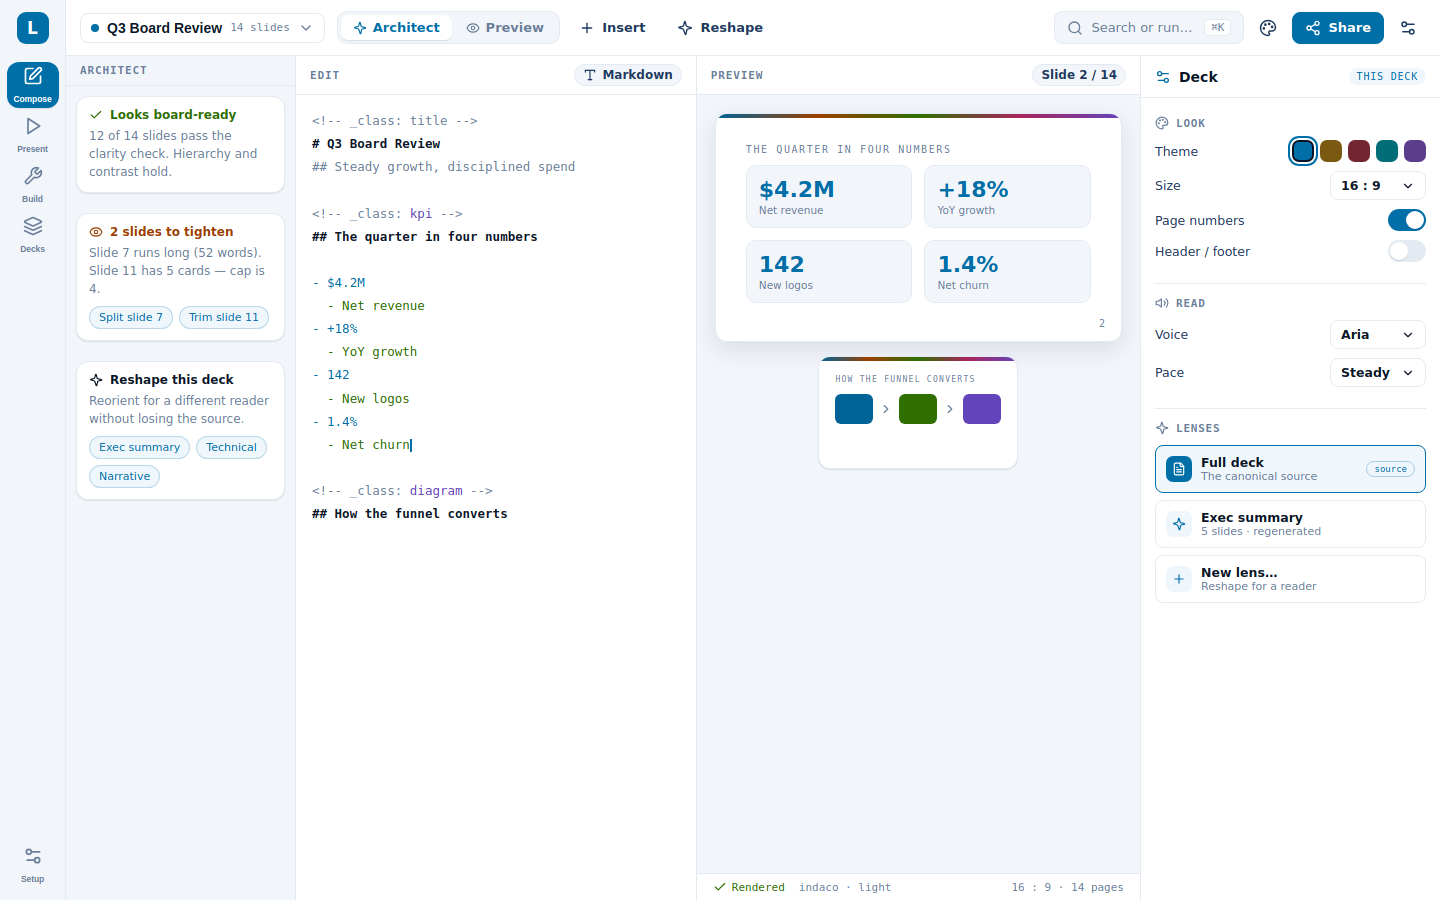
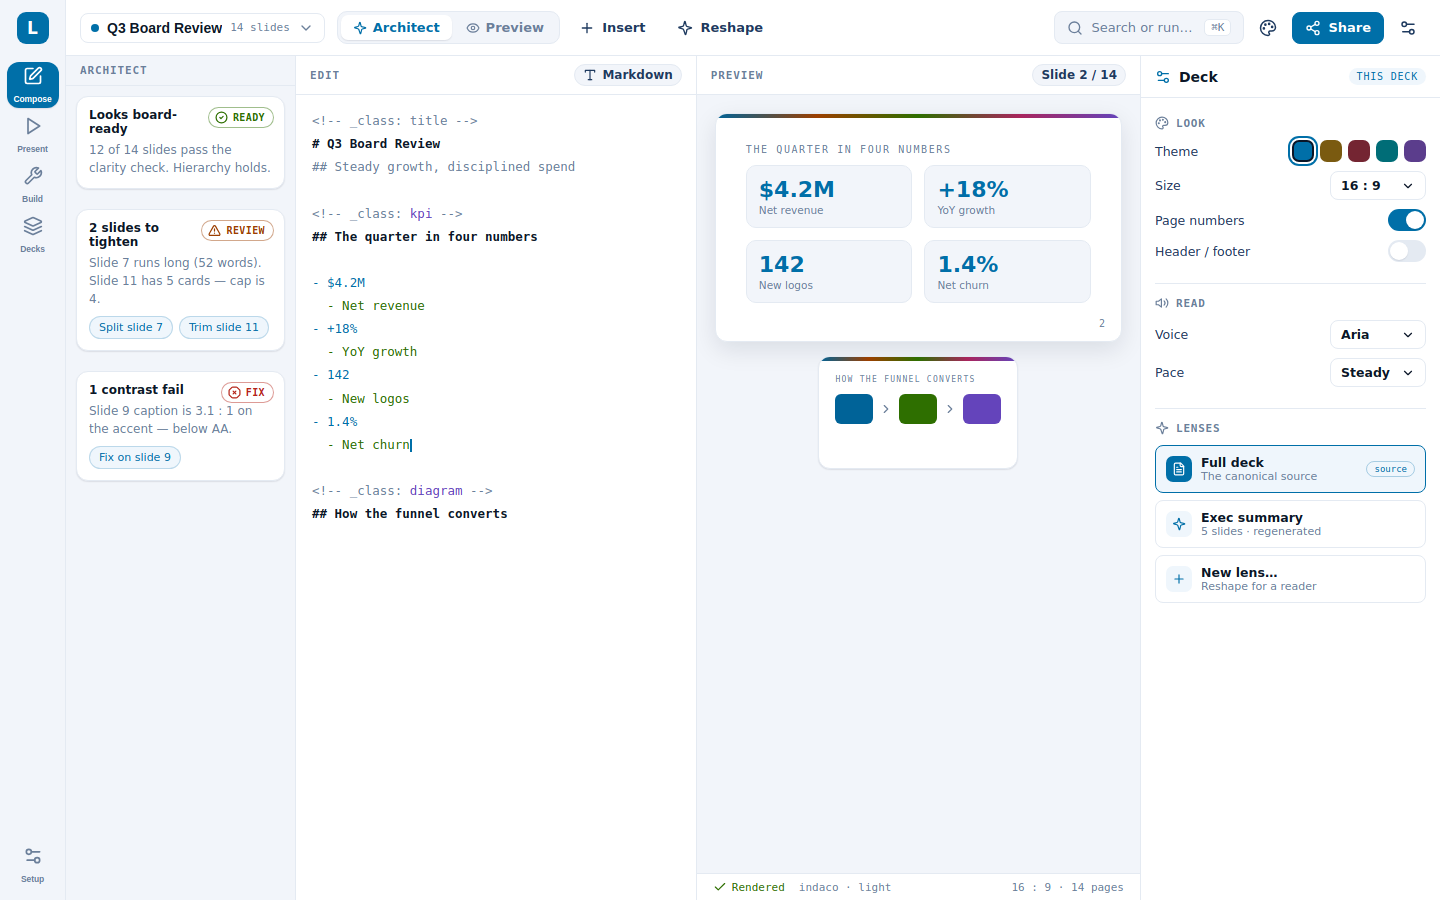
docs(decisions): colour-independent status tags for accessibility (WCAG 1.4.1)
Status/severity no longer rides on colour alone. The Architect findings gain a
shape-coded intent tag in the top-right corner — circle-check READY, triangle
REVIEW, octagon-x FIX, circle-i INFO — pairing a silhouette-distinct icon with a
text label; card titles de-coloured so colour only reinforces. Adds intent-proof
(full-colour vs greyscale) proving the tags survive total colour loss. Binds it as
kill-criterion PM-13 + a §8 visual-language rule; v1 and v2 Compose updated.

Claude-Session: https://claude.ai/code/session_01CzAa6CanDDRTjCN9n5wX5R

Changed region(s): [[0.0625, 0.2489, 0.1875, 0.56], [0.0625, 0.1244, 0.1875, 0.2178]]

diff --git a/engineering/decisions/2026-06-21-app-redesign/mockups/src/intent-proof.body.html b/engineering/decisions/2026-06-21-app-redesign/mockups/src/intent-proof.body.html
@@ -1,0 +1,24 @@
+<!--mode:light;w:900-->
+<div style="min-height:100vh;display:grid;place-items:center;background:var(--bg-alt);font-family:var(--font-sans)">
+  <div style="background:var(--bg);border:1px solid var(--border);border-radius:18px;box-shadow:var(--shadow-lg);padding:34px 38px;max-width:760px">
+    <div style="font-family:var(--font-mono);font-size:11px;letter-spacing:.14em;text-transform:uppercase;color:var(--text-muted);margin-bottom:8px">Accessibility · WCAG 1.4.1 Use of Colour</div>
+    <h1 style="font-family:var(--font-sans);font-weight:800;font-size:24px;color:var(--text-heading);margin:0 0 6px;letter-spacing:-.01em">Intent never rides on colour alone</h1>
+    <p style="font-size:14px;color:var(--text-body);margin:0 0 24px;line-height:1.6">Each status tag pairs colour with a <b>shape-distinct icon</b> (circle ✓ · triangle ! · octagon × · circle i) and a text label. Remove colour entirely and the meaning survives.</p>
+
+    <div style="font-family:var(--font-mono);font-size:11px;color:var(--text-muted);text-transform:uppercase;letter-spacing:.08em;margin-bottom:10px">Full colour</div>
+    <div style="display:flex;gap:14px;flex-wrap:wrap;margin-bottom:26px">
+      <span class="intent-tag pass" style="position:static;font-size:13px;padding:6px 13px 6px 10px"><svg class="icon" style="width:17px;height:17px"><use href="#i-check-circle"/></svg>READY</span>
+      <span class="intent-tag warn" style="position:static;font-size:13px;padding:6px 13px 6px 10px"><svg class="icon" style="width:17px;height:17px"><use href="#i-alert-triangle"/></svg>REVIEW</span>
+      <span class="intent-tag fix" style="position:static;font-size:13px;padding:6px 13px 6px 10px"><svg class="icon" style="width:17px;height:17px"><use href="#i-octagon-x"/></svg>FIX</span>
+      <span class="intent-tag info" style="position:static;font-size:13px;padding:6px 13px 6px 10px"><svg class="icon" style="width:17px;height:17px"><use href="#i-info-circle"/></svg>INFO</span>
+    </div>
+
+    <div style="font-family:var(--font-mono);font-size:11px;color:var(--text-muted);text-transform:uppercase;letter-spacing:.08em;margin-bottom:10px">Greyscale — colour-blind / monochrome worst case</div>
+    <div style="display:flex;gap:14px;flex-wrap:wrap;filter:grayscale(1)">
+      <span class="intent-tag pass" style="position:static;font-size:13px;padding:6px 13px 6px 10px"><svg class="icon" style="width:17px;height:17px"><use href="#i-check-circle"/></svg>READY</span>
+      <span class="intent-tag warn" style="position:static;font-size:13px;padding:6px 13px 6px 10px"><svg class="icon" style="width:17px;height:17px"><use href="#i-alert-triangle"/></svg>REVIEW</span>
+      <span class="intent-tag fix" style="position:static;font-size:13px;padding:6px 13px 6px 10px"><svg class="icon" style="width:17px;height:17px"><use href="#i-octagon-x"/></svg>FIX</span>
+      <span class="intent-tag info" style="position:static;font-size:13px;padding:6px 13px 6px 10px"><svg class="icon" style="width:17px;height:17px"><use href="#i-info-circle"/></svg>INFO</span>
+    </div>
+  </div>
+</div>

diff --git a/engineering/decisions/2026-06-21-app-redesign/mockups/src/compose-rail.body.html b/engineering/decisions/2026-06-21-app-redesign/mockups/src/compose-rail.body.html
@@ -43,12 +43,14 @@
         <!-- Architect aside -->
         <aside class="architect">
           <div class="pane-head">Architect</div>
-          <div class="arch-card good">
-            <div class="t"><svg class="icon xs"><use href="#i-check"/></svg>Looks board-ready</div>
-            <div class="b">12 of 14 slides pass the clarity check. Hierarchy and contrast hold.</div>
+          <div class="arch-card">
+            <span class="intent-tag pass"><svg class="icon"><use href="#i-check-circle"/></svg>READY</span>
+            <div class="t">Looks board-ready</div>
+            <div class="b">12 of 14 slides pass the clarity check. Hierarchy holds.</div>
           </div>
-          <div class="arch-card warn">
-            <div class="t"><svg class="icon xs"><use href="#i-eye"/></svg>2 slides to tighten</div>
+          <div class="arch-card">
+            <span class="intent-tag warn"><svg class="icon"><use href="#i-alert-triangle"/></svg>REVIEW</span>
+            <div class="t">2 slides to tighten</div>
             <div class="b">Slide 7 runs long (52 words). Slide 11 has 5 cards — cap is 4.</div>
             <div class="arch-chiprow">
               <span class="arch-chip">Split slide 7</span>
@@ -56,12 +58,11 @@
             </div>
           </div>
           <div class="arch-card">
-            <div class="t"><svg class="icon xs"><use href="#i-sparkles"/></svg>Reshape this deck</div>
-            <div class="b">Reorient for a different reader without losing the source.</div>
+            <span class="intent-tag fix"><svg class="icon"><use href="#i-octagon-x"/></svg>FIX</span>
+            <div class="t">1 contrast fail</div>
+            <div class="b">Slide 9 caption is 3.1 : 1 on the accent — below AA.</div>
             <div class="arch-chiprow">
-              <span class="arch-chip">Exec summary</span>
-              <span class="arch-chip">Technical</span>
-              <span class="arch-chip">Narrative</span>
+              <span class="arch-chip">Fix on slide 9</span>
             </div>
           </div>
         </aside>

diff --git a/engineering/decisions/2026-06-21-app-redesign/mockups/src/compose.body.html b/engineering/decisions/2026-06-21-app-redesign/mockups/src/compose.body.html
@@ -34,19 +34,22 @@
     <div class="compose with-architect">
       <aside class="architect">
         <div class="pane-head">Architect</div>
-        <div class="arch-card good">
-          <div class="t"><svg class="icon xs"><use href="#i-check"/></svg>Looks board-ready</div>
-          <div class="b">12 of 14 slides pass the clarity check. Hierarchy and contrast hold.</div>
+        <div class="arch-card">
+          <span class="intent-tag pass"><svg class="icon"><use href="#i-check-circle"/></svg>READY</span>
+          <div class="t">Looks board-ready</div>
+          <div class="b">12 of 14 slides pass the clarity check. Hierarchy holds.</div>
         </div>
-        <div class="arch-card warn">
-          <div class="t"><svg class="icon xs"><use href="#i-eye"/></svg>2 slides to tighten</div>
+        <div class="arch-card">
+          <span class="intent-tag warn"><svg class="icon"><use href="#i-alert-triangle"/></svg>REVIEW</span>
+          <div class="t">2 slides to tighten</div>
           <div class="b">Slide 7 runs long (52 words). Slide 11 has 5 cards — cap is 4.</div>
           <div class="arch-chiprow"><span class="arch-chip">Split slide 7</span><span class="arch-chip">Trim slide 11</span></div>
         </div>
         <div class="arch-card">
-          <div class="t"><svg class="icon xs"><use href="#i-sparkles"/></svg>Reshape this deck</div>
-          <div class="b">Reorient for a different reader without losing the source.</div>
-          <div class="arch-chiprow"><span class="arch-chip">Exec summary</span><span class="arch-chip">Technical</span><span class="arch-chip">Narrative</span></div>
+          <span class="intent-tag fix"><svg class="icon"><use href="#i-octagon-x"/></svg>FIX</span>
+          <div class="t">1 contrast fail</div>
+          <div class="b">Slide 9 caption is 3.1 : 1 on the accent — below AA.</div>
+          <div class="arch-chiprow"><span class="arch-chip">Fix on slide 9</span></div>
         </div>
       </aside>
 

diff --git a/engineering/decisions/2026-06-21-app-redesign/mockups/src/studio.css b/engineering/decisions/2026-06-21-app-redesign/mockups/src/studio.css
@@ -439,3 +439,17 @@ body {
 /* portrait single-pane preview fills */
 .t-single { display: flex; flex-direction: column; min-height: 0; min-width: 0; }
 .t-single .preview { gap: 16px; }
+
+/* ===== Intent tag — non-colour status signal (WCAG 1.4.1) ===== */
+.arch-card { position: relative; }
+.intent-tag { position: absolute; top: 10px; right: 10px; display: inline-flex; align-items: center; gap: 5px;
+  padding: 3px 8px 3px 6px; border-radius: 999px; font-family: var(--font-mono); font-size: 10px;
+  font-weight: 700; letter-spacing: .04em; border: 1.5px solid; background: var(--bg); }
+.intent-tag .icon { width: 13px; height: 13px; stroke-width: 2.25; }
+/* colour REINFORCES; the shape-distinct icon + label carries the meaning */
+.intent-tag.pass  { color: var(--cat3); border-color: color-mix(in srgb, var(--cat3) 45%, transparent); }
+.intent-tag.warn  { color: var(--cat2); border-color: color-mix(in srgb, var(--cat2) 45%, transparent); }
+.intent-tag.fix   { color: #B42318; border-color: color-mix(in srgb, #B42318 45%, transparent); }
+.intent-tag.info  { color: var(--accent); border-color: color-mix(in srgb, var(--accent) 45%, transparent); }
+[data-mode="dark"] .intent-tag.fix { color: #F97066; }
+.arch-card .t { padding-right: 72px; }

diff --git a/engineering/decisions/2026-06-21-app-redesign/mockups/src/_sprite.html b/engineering/decisions/2026-06-21-app-redesign/mockups/src/_sprite.html
@@ -26,4 +26,8 @@
 <symbol id="i-cloud" viewBox="0 0 24 24"><path d="M17.5 19a4.5 4.5 0 0 0 .53-8.97 6 6 0 0 0-11.64-1.5A4 4 0 0 0 6.5 19z"/></symbol>
 <symbol id="i-wallet" viewBox="0 0 24 24"><path d="M19 7V5a2 2 0 0 0-2-2H5a2 2 0 0 0 0 4h14a2 2 0 0 1 2 2v8a2 2 0 0 1-2 2H5a2 2 0 0 1-2-2V5"/><path d="M16 12h.01"/></symbol>
 <symbol id="i-pause" viewBox="0 0 24 24"><rect x="6" y="4" width="4" height="16" rx="1"/><rect x="14" y="4" width="4" height="16" rx="1"/></symbol>
+<symbol id="i-check-circle" viewBox="0 0 24 24"><circle cx="12" cy="12" r="10"/><path d="m9 12 2 2 4-4"/></symbol>
+<symbol id="i-alert-triangle" viewBox="0 0 24 24"><path d="M21.73 18 13.73 4a2 2 0 0 0-3.46 0L2.27 18a2 2 0 0 0 1.73 3h16a2 2 0 0 0 1.73-3"/><line x1="12" y1="9" x2="12" y2="13"/><line x1="12" y1="17" x2="12.01" y2="17"/></symbol>
+<symbol id="i-octagon-x" viewBox="0 0 24 24"><path d="M2.586 16.726A2 2 0 0 1 2 15.312V8.688a2 2 0 0 1 .586-1.414l4.688-4.688A2 2 0 0 1 8.688 2h6.624a2 2 0 0 1 1.414.586l4.688 4.688A2 2 0 0 1 22 8.688v6.624a2 2 0 0 1-.586 1.414l-4.688 4.688a2 2 0 0 1-1.414.586H8.688a2 2 0 0 1-1.414-.586z"/><path d="m14.5 9.5-5 5"/><path d="m9.5 9.5 5 5"/></symbol>
+<symbol id="i-info-circle" viewBox="0 0 24 24"><circle cx="12" cy="12" r="10"/><line x1="12" y1="11" x2="12" y2="16"/><line x1="12" y1="8" x2="12.01" y2="8"/></symbol>
 </defs></svg>

diff --git a/engineering/decisions/2026-06-21-app-redesign.md b/engineering/decisions/2026-06-21-app-redesign.md
@@ -505,6 +505,13 @@ not introduce a second language (HARD RULES 3, 11, 15).
 - **Motion:** restrained and purposeful only — Inspector collapse, intent
   crossfade, sheet slide. No decorative animation. Respect
   `prefers-reduced-motion`.
+- **Accessibility — colour is never the only channel (PM-13).** Status, severity,
+  and intent use the shape-coded **intent-tag** system: a corner tag carrying a
+  silhouette-distinct icon + text label (circle-✓ `READY` · triangle-! `REVIEW` ·
+  octagon-× `FIX` · circle-i `INFO`). The engine already ships CVD palettes
+  (deuteranopia, protanopia, tritanopia, achromatopsia); the chrome holds the same
+  bar — every status cue is verified to read in greyscale (WCAG 1.4.1), and the
+  coloured text itself stays ≥ AA. See the mockups' `intent-proof.png`.
 
 ## 9. Responsive contract (all three first-class)
 
@@ -632,6 +639,7 @@ what the author chose, PM-# records what the red-team proved we must constrain).
 | PM-10 | **Per-surface graceful degradation** — a shell/Workbench fault can't blank Compose; surfaces stay independently loadable. | adds a Win-1 requirement |
 | PM-11 | **Optimize per-persona, not uniformly** — density for the author, low-load for the recipient; "minimize clicks" is a *reader* goal, not universal. | scopes the headline goal |
 | PM-12 | **Mockups are zero-behavior specs** — they never set the schedule; each is paired with its integration cost. | framing |
+| PM-13 | **Never signal status / severity / intent by colour alone (WCAG 1.4.1).** Pair every such cue with a **shape-distinct icon + text** corner tag — circle-✓ `READY` · triangle-! `REVIEW` · octagon-× `FIX` · circle-i `INFO` — verified to read in greyscale and across the CVD palettes. Colour reinforces; it never carries the meaning. | author-raised; new convention |
 
 **Net:** inversion does not kill the plan; it demotes "merge → start Win 1" to
 "merge as *direction* → buy evidence first" (PM-2). The load-bearing risk
@@ -763,5 +771,10 @@ merge-authorization gate (CLAUDE.md), then post the standup.
   *hybrid leaning by orientation* — desktop chrome, mobile density/overlays, panes
   orientation-gated. In `v2-tabs/tablet-compose-*.png`. Now mocked at all three
   widths (390 / 820 / 1440).
+- 2026-06-21 — **Colour-independent status signalling (author-raised → PM-13).**
+  Status/severity no longer relies on colour (WCAG 1.4.1): the Architect cards gain
+  a shape-coded **intent tag** (circle-✓ READY · triangle-! REVIEW · octagon-× FIX
+  · circle-i INFO) with a text label; titles de-coloured. Added PM-13, a §8 a11y
+  rule, and `intent-proof.png` (full-colour vs greyscale). Compose v1+v2 updated.
 - _pending_ — Author approval (per PM-2, of **Win 0 only**); intent-switch shell
   (v1 rail vs v2 tabs, fork PM-5) still to confirm.

diff --git a/engineering/decisions/2026-06-21-app-redesign/mockups/README.md b/engineering/decisions/2026-06-21-app-redesign/mockups/README.md
@@ -8,6 +8,12 @@ icons, so palette, type, and density are faithful. **These are zero-behavior
 visual specs, not shipped code** (PM-12) — the real surfaces carry ~30 modules of
 state behind these pictures.
 
+**Accessibility (PM-13).** Status/severity never rides on colour alone. The
+Architect cards carry a shape-coded **intent tag** (circle-✓ `READY` · triangle-!
+`REVIEW` · octagon-× `FIX` · circle-i `INFO`); [`intent-proof.png`](./intent-proof.png)
+shows the tags in full colour and greyscale — the silhouettes + labels survive
+total colour loss (WCAG 1.4.1), matching the engine's CVD palettes.
+
 ## v1 vs v2 — what differs (it's only the shell chrome)
 
 Two options for the intent switch (the open fork **PM-5**). **Only the chrome that